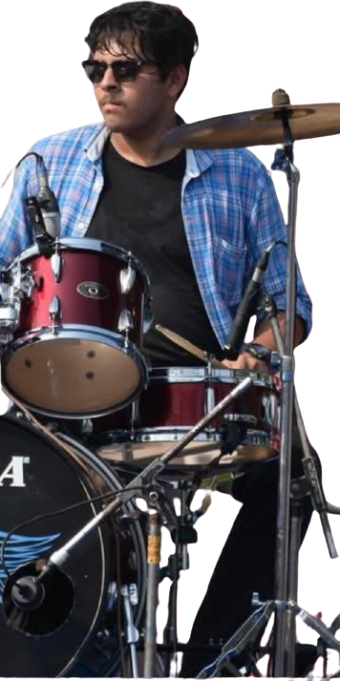
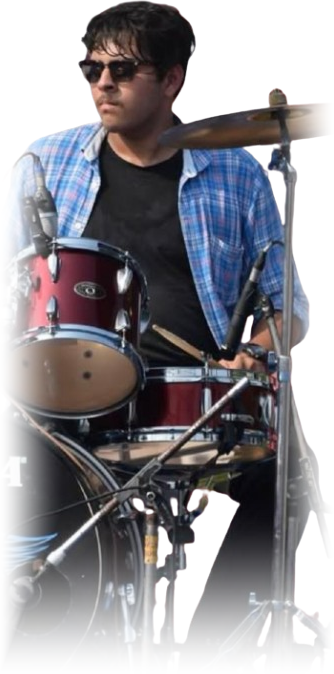
New Harsh cut-out, bigger drummer, and smooth hover edges
Harsh: the new photograph, cropped so both shoulders are clear. His head is
smaller in frame than the old cut-out's, so cropping alone couldn't match the
old framing — he needed the scale instead (0.93 -> 1.18).

Partho's bass headstock is visible again. It had been hidden because Yuvraaj
was lifted above him via `layer: 35` to stop the headstock crossing his face.
Dropped the override and moved Yuvraaj right instead (nudge 0.13), which clears
his face without burying the headstock. He's also bigger — 1.02 -> 1.16.

The hover "border" was the accent glow: a blurred rectangle whose bottom the
slot's clip-path cut dead straight, so hovering drew a hard horizontal line
across the figure. It's now a radial gradient that fades out before it reaches
the clip. Also dropped the brightness(1.1) lift, which was making the
cut-outs' semi-transparent fringe pop as an outline, and narrowed the
transition to filter/opacity/transform over 900ms.

Yuvraaj's kit ended on hard cuts. Two fixes: the PNG's edges are feathered with
a smoothstep falloff (20% of width at the sides, 26% at the bottom), and a new
per-member `fadeFrom` starts his mask fade at 46% instead of the default 80% so
the kit dissolves below his torso. His face and shoulders stay crisp — the
drums were never the point.

Verified: no image clipped 1024-1920, labels holding 4px, heads centred on
their plates, no bare-backdrop columns between figures.

diff --git a/src/components/HeroLineup.tsx b/src/components/HeroLineup.tsx
@@ -183,7 +183,7 @@ export default function HeroLineup() {
           onMouseLeave={() => setHovered(null)}
         >
           {LINEUP.map((member, i) => {
-            const { scale, drop, headCx, nudge = 0 } = member.lineup;
+            const { scale, drop, headCx, nudge = 0, fadeFrom = 80 } = member.lineup;
             const slotW = slotUnits(member);
             const imgW = imageUnits(member);
             // put their head on the slot's centre line, i.e. over their name
@@ -223,10 +223,15 @@ export default function HeroLineup() {
                       clipPath: "inset(-100vh -100vw 0 -100vw)",
                     }}
                   >
-                    {/* accent pool at their feet */}
+                    {/* Accent pool at their feet. A radial gradient, not a
+                        blurred rectangle — the slot clips dead straight along the
+                        floor, and a rectangle's bottom edge showed through that
+                        clip as a hard line the moment you hovered. */}
                     <span
-                      className="pointer-events-none absolute inset-x-0 bottom-0 h-24 opacity-0 blur-2xl transition-opacity duration-500 group-hover:opacity-80"
-                      style={{ background: member.accent }}
+                      className="pointer-events-none absolute inset-x-[-30%] bottom-[6%] h-32 opacity-0 transition-opacity duration-700 ease-[var(--ease-out-expo)] group-hover:opacity-70"
+                      style={{
+                        background: `radial-gradient(ellipse 50% 50% at 50% 60%, ${member.accent}, transparent 70%)`,
+                      }}
                     />
 
                     {/* pointer-events-none matters: the image spills outside the
@@ -244,8 +249,7 @@ export default function HeroLineup() {
                         transform: `translateY(calc(var(--fig) * ${drop} + ${lit ? "-0.85rem" : "0px"}))`,
                         // dissolve the bottom edge so the shorter crops don't
                         // all end on a hard horizontal cut
-                        maskImage:
-                          "linear-gradient(to bottom, #000 80%, transparent 100%)",
+                        maskImage: `linear-gradient(to bottom, #000 ${fadeFrom}%, transparent 100%)`,
                       }}
                     >
                       <Image
@@ -254,8 +258,8 @@ export default function HeroLineup() {
                         fill
                         priority={i < 4}
                         sizes="(max-width: 640px) 45vw, (max-width: 1024px) 30vw, 18vw"
-                        className={`object-contain object-bottom drop-shadow-[0_16px_34px_rgba(0,0,0,0.85)] transition-all duration-700 ease-[var(--ease-out-expo)] ${
-                          lit ? "grayscale-0 brightness-110" : "grayscale-[0.85]"
+                        className={`object-contain object-bottom drop-shadow-[0_16px_34px_rgba(0,0,0,0.85)] transition-[filter,opacity,transform] duration-[900ms] ease-[var(--ease-out-expo)] ${
+                          lit ? "grayscale-0" : "grayscale-[0.85] brightness-[0.92]"
                         }`}
                       />
                     </span>

diff --git a/src/data/band.ts b/src/data/band.ts
@@ -155,10 +155,12 @@ export type Member = {
      *  the three guitarists a little air rather than spacing the whole row. */
     gapBefore?: number;
     /** optional stacking override. Members default to drawing left-over-right
-     *  (×10, so there's room between them). Raise this to lift someone above a
-     *  neighbour whose instrument would otherwise cross their face — Partho's
-     *  bass headstock lands squarely on Yuvraaj's. */
+     *  (×10, so there's room between them). */
     layer?: number;
+    /** where the bottom fade starts, as a percentage of the figure. Default 80.
+     *  Lower it to dissolve something the cut-out ends abruptly on — Yuvraaj's
+     *  drum kit is cut mid-shell in the source, and it's his face that matters. */
+    fadeFrom?: number;
   };
   /** every other supplied shot of them, shown as a strip on their page */
   gallery: string[];
@@ -188,7 +190,7 @@ export const MEMBERS: Member[] = [
     accent: "#E11D2E",
     photo: "/photos/harsh-roy.jpg",
     cutout: "/cutouts/harsh-roy.png",
-    lineup: { scale: 0.93, drop: -0.07, aspect: 0.8266, bodyW: 0.512, headCx: 0.396, nudge: 0.06, gapBefore: 0.05 },
+    lineup: { scale: 1.18, drop: 0.18, aspect: 0.7793, bodyW: 0.4395, headCx: 0.3703, nudge: 0.06, gapBefore: 0.05 },
     gallery: [
       "/photos/gallery/harsh-roy/01.jpg",
       "/photos/gallery/harsh-roy/02.jpg",
@@ -424,7 +426,7 @@ export const MEMBERS: Member[] = [
     accent: "#3B82F6",
     photo: "/photos/yuvraaj-rawat.jpg",
     cutout: "/cutouts/yuvraaj-rawat.png",
-    lineup: { scale: 1.02, drop: 0.02, aspect: 0.4993, bodyW: 0.885, headCx: 0.419, layer: 35 },
+    lineup: { scale: 1.16, drop: 0.16, aspect: 0.4955, bodyW: 0.8144, headCx: 0.4185, nudge: 0.13, fadeFrom: 46 },
     gallery: [
       "/photos/gallery/yuvraaj-rawat/01.jpg",
       "/photos/gallery/yuvraaj-rawat/02.jpg",

diff --git a/README.md b/README.md
@@ -147,7 +147,8 @@ lineup: { scale: 1.02, drop: 0.02, aspect: 0.3766, bodyW: 0.835, headCx: 0.745 }
 | `headCx` | where their head sits across the PNG, 0–1. The figure is positioned so this lands on the slot's centre, i.e. directly over their name. |
 | `nudge` | optional manual offset in `--fig` units, applied after centring. Positive moves right. Arnold leans with his knee out to the left, so head-centring left his mass sitting left of his name. |
 | `gapBefore` | optional extra space before this member, in `--fig` units. Used to give the three guitarists a little air without loosening the whole row — `AIR` would space everyone. |
-| `layer` | optional stacking override. Members default to drawing left-over-right at `(count − index) × 10`. Raise it to lift someone above a neighbour whose instrument crosses their face. Yuvraaj is at `35` (above Partho's `30`) because Partho's bass headstock landed squarely on his nose. |
+| `layer` | optional stacking override. Members default to drawing left-over-right at `(count − index) × 10`. Raise it to lift someone above a neighbour. Currently unused — the drummer's face is cleared by moving him rather than restacking, so Partho's headstock stays visible. |
+| `fadeFrom` | where the bottom fade starts, as a percentage of the figure. Default `80`. Lower it to dissolve something the cut-out ends abruptly on — Yuvraaj's drum kit is cut mid-shell in the source, so his is `46`. |
 
 **Measure head WIDTH, not head height.** Head height was tried and produced two
 visibly wrong passes. It's inflated by hair (Riyan's covers his face entirely) and by
